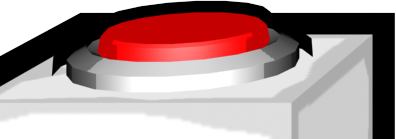
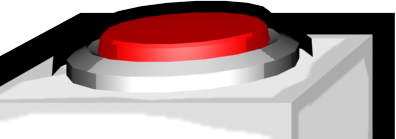
new missions

Changed region(s): [[0.2424, 0.0863, 0.697, 0.4317]]

diff --git a/app/assets/js/ubinota/Ubinota.js b/app/assets/js/ubinota/Ubinota.js
@@ -44,14 +44,14 @@ requirejs.config({
 define(['jquery', 'three', 'howl', 'OrbitControls', 'stats', 'Physijs','OBJMTLLoader'],function($, THREE){
     var jqueryMap = {},
         configMap = {
-            render_max_fps: 1 / 50
+            render_max_fps: 1 / 60
         },
         sceneMap = {},
         statusMap = {simulate: false},
         toolMap = [],
         soundMap = {},
         resourceInfo = {
-            maps: [{url: '../js/map1.json'}, {url: '../js/map2.json'}, {url: '../js/map3.json'}, {url: '../js/map4.json'}, {url: '../js/map5.json'}],
+            maps: [{url: '../js/map1.json'}, {url: '../js/map2.json'}, {url: '../js/map3.json'}, {url: '../js/map4.json'}, {url: '../js/map5.json'}, {url: '../js/map6.json'}, {url: '../js/map7.json'}, {url: '../js/map8.json'}, {url: '../js/map9.json'}],
             images: [{name: 'skybox', url: '../texture/sky.png'}, {name: 'skybg', url: '../texture/skybg.png'}],
             cubes: [{color: 'white', model: '../model/cube.obj', mtl: '../model/whiteCube.mtl'}, {color: 'blue', model: '../model/cube.obj', mtl: '../model/blueCube.mtl'}, {color: 'green', model: '../model/cube.obj', mtl: '../model/greenCube.mtl'}],
             bases: [{color: 'blue', model: '../model/base.obj', mtl: '../model/blueBase.mtl'}, {color: 'green', model: '../model/base.obj', mtl: '../model/greenBase.mtl'}],
@@ -72,7 +72,7 @@ define(['jquery', 'three', 'howl', 'OrbitControls', 'stats', 'Physijs','OBJMTLLo
         Physijs.scripts.ammo = 'ammo.js';
 
         scene = new Physijs.Scene();
-        scene.setGravity(new THREE.Vector3(0, -320, 0));
+        scene.setGravity(new THREE.Vector3(0, -380, 0));
 
         camera = new THREE.PerspectiveCamera(75, window.innerWidth / window.innerHeight, 0.5, 20001);
         ambientLight = new THREE.AmbientLight( 0x101030 );
@@ -116,7 +116,6 @@ define(['jquery', 'three', 'howl', 'OrbitControls', 'stats', 'Physijs','OBJMTLLo
 
         initLoadingPage();
         initSound();
-
 
         loadResources();
     };
@@ -197,6 +196,7 @@ define(['jquery', 'three', 'howl', 'OrbitControls', 'stats', 'Physijs','OBJMTLLo
         setTimeout(initStart, 3000);
 
         initMap();
+        initResult();
     };
 
     var onCanvasClick = function(event){
@@ -427,7 +427,7 @@ define(['jquery', 'three', 'howl', 'OrbitControls', 'stats', 'Physijs','OBJMTLLo
     };
 
     var initButton = function(){
-        jqueryMap.$container.append('<div id="button"><img src="../image/button.png"></div>');
+        jqueryMap.$container.append('<div id="button"><img src="../image/button.png"><img class="hover" src="../image/button_hover.png"><img class="clicked" src="../image/button_clicked.png" ></div>');
         var $button = jqueryMap.$container.find('#button');
         $button.on('click', onButtonClick);
         jqueryMap.$button = $button;
@@ -439,10 +439,16 @@ define(['jquery', 'three', 'howl', 'OrbitControls', 'stats', 'Physijs','OBJMTLLo
         });
     };
 
+    var initResult = function(){
+        jqueryMap.$container.append('<div id="result"><div class="defeat"><img src="./image/defeat.png" /></div><div class="victory"><img src="../image/victory.png" /></div></div>');
+        jqueryMap.$defeat = jqueryMap.$container.find('.defeat');
+        jqueryMap.$victory = jqueryMap.$container.find('.victory');
+    }
+
     var initMap = function(){
         jqueryMap.$container.append('<div id="map"><div class="box"><img class="map" src="../image/map.jpg"/></div></div>');
-        var points = [[11, 44], [9, 72], [34, 85], [74, 29], [89, 52]],
-            arrows = [[11, 32], [9, 60], [34, 73], [74, 17], [89, 40]],
+        var points = [[11, 44], [9, 72], [26, 21] ,[36, 86], [39, 54], [68, 18], [74, 29], [89, 52], [28, 36]],
+            arrows = [[11, 32], [9, 60], [26, 9], [36, 74], [39, 42], [68, 6], [74, 17], [89, 40], [28, 24]],
             $map = jqueryMap.$container.find('#map'),
             $box = $map.find('.box');
 
@@ -465,6 +471,7 @@ define(['jquery', 'three', 'howl', 'OrbitControls', 'stats', 'Physijs','OBJMTLLo
     };
 
     var onButtonClick = function(){
+        jqueryMap.$button.find('.clicked').show();
     	$(sceneMap.renderer.domElement).unbind('click', onCanvasClick);
         var cubes = sceneMap.cubes,
             checkConnect = function(cube){
@@ -535,6 +542,7 @@ define(['jquery', 'three', 'howl', 'OrbitControls', 'stats', 'Physijs','OBJMTLLo
     	};
     	jqueryMap.$tanks.remove();
     	jqueryMap.$brushes.remove();
+        jqueryMap.$button.find('.clicked').hide();
     };
 
     var startNextMission = function(isVictory){
@@ -542,10 +550,11 @@ define(['jquery', 'three', 'howl', 'OrbitControls', 'stats', 'Physijs','OBJMTLLo
 	    	statusMap.simulate = false;
 
 	    	if(isVictory){
-	    		clearMission();
-	    		currentMission++;
-	    		initMission();
-	    	}
+                jqueryMap.$victory.show();
+
+	    	} else {
+                jqueryMap.$defeat.show();
+            }
 	    	render();
     	}, 15000);
     };

diff --git a/app/assets/css/main.css b/app/assets/css/main.css
@@ -129,8 +129,18 @@ body {
 }
 #button img{
     width: 100%;
+    height: 100%;
+    display: block;
 }
-
+#button .hover, #button .clicked {
+    position: absolute;
+    top: 0;
+    left: 0;
+    display: none;
+}
+#button:hover .hover {
+    display: block;
+}
 #map {
     position: absolute;
     top: 0;
@@ -167,4 +177,15 @@ body {
     0% {margin-top: 0;}
     100% {margin-top: 16px;}
 }
-
+#result .defeat, #result .victory{
+    display: none;
+    position: absolute;
+    top: 0;
+    left: 0;
+    width: 100%;
+    height: 100%;
+    text-align: center;
+}
+#result img {
+    height: 100%;
+}
